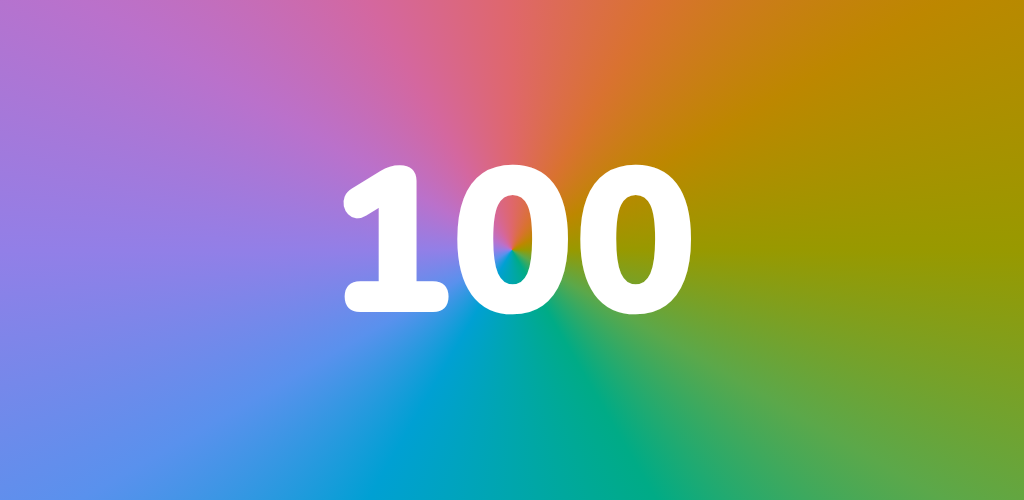
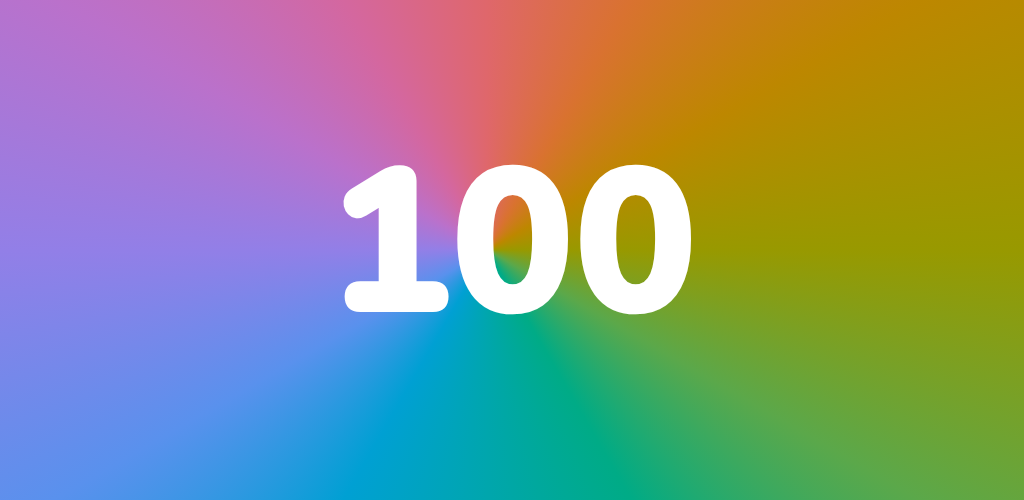
The wheel's centre behind the first 0, so its point is never seen
Claude-Session: https://claude.ai/code/session_01Rm9T3ZwdKe9s4GWzNjmwiB

Changed region(s): [[0.4062, 0.27, 0.5938, 0.75]]

diff --git a/css/numbers.css b/css/numbers.css
@@ -88,7 +88,9 @@
 /* The 100 wears the wheel, and the wheel turns: --turn is where the gradient
    starts from, taken slowly round wherever a 100 is painted. Registering it
    is what lets the angle interpolate; a browser that does not know @property
-   shows the wheel standing still. The wheel's stops are kept apart in --wheel, which
+   shows the wheel standing still. The wheel's centre, where every colour
+   meets at a point, sits a little left of the middle, behind the first 0's
+   stroke, so the point itself is never seen. The stops are kept apart in --wheel, which
    js/ui/icons.js reads for everything else painted in the rainbow, and
    tools/icon.js draws the same wheel on the app icon. */
 @property --turn {
@@ -107,7 +109,7 @@
         #5ba84a 120deg, #00ab86 150deg, #00a6ad 180deg, #00a0d3 210deg,
         #5991ed 240deg, #927fe7 270deg, #ba71cb 300deg, #d4679f 330deg,
         #df676b 360deg;
-    --num: conic-gradient(from var(--turn, 0deg), var(--wheel));
+    --num: conic-gradient(from var(--turn, 0deg) at 44% 50%, var(--wheel));
 }
 
 /* where the colour is painted on the piece itself, the turn is too */
@@ -177,7 +179,7 @@
 
 .tile.num-100 .tile__art svg.icon,
 .float.num-100 svg.icon {
-    background: conic-gradient(from var(--turn, 0deg), var(--wheel));
+    background: conic-gradient(from var(--turn, 0deg) at 44% 50%, var(--wheel));
     animation: wheel-turn 14s linear infinite;
 }
 

diff --git a/tools/icon.js b/tools/icon.js
@@ -119,8 +119,19 @@ function draw(spec) {
         g.beginPath(); g.arc(cx, cy, Math.min(cx, cy), 0, Math.PI * 2); g.clip();
     }
     if (spec.rings) {
-        // the wheel from twelve, clockwise — as the CSS conic gradient
-        const wheel = g.createConicGradient(-Math.PI / 2, cx, cy);
+        // the wheel from twelve, clockwise — as the CSS conic gradient — with
+        // its centre behind the first 0's stroke, where the 100 is drawn, so
+        // the point where every colour meets is never seen
+        let wx = cx;
+        if (spec.text) {
+            g.font = "900 100px Nunito";
+            const all = g.measureText(spec.text).width;
+            const one = g.measureText("1").width;
+            const zero = g.measureText("0").width;
+            const scale = spec.span / all;
+            wx = cx - spec.span / 2 + (one + zero * 0.3) * scale;
+        }
+        const wheel = g.createConicGradient(-Math.PI / 2, wx, cy);
         spec.wheel.forEach((hex, i) => wheel.addColorStop(i / 12, hex));
         wheel.addColorStop(1, spec.wheel[0]);
         g.fillStyle = wheel;
